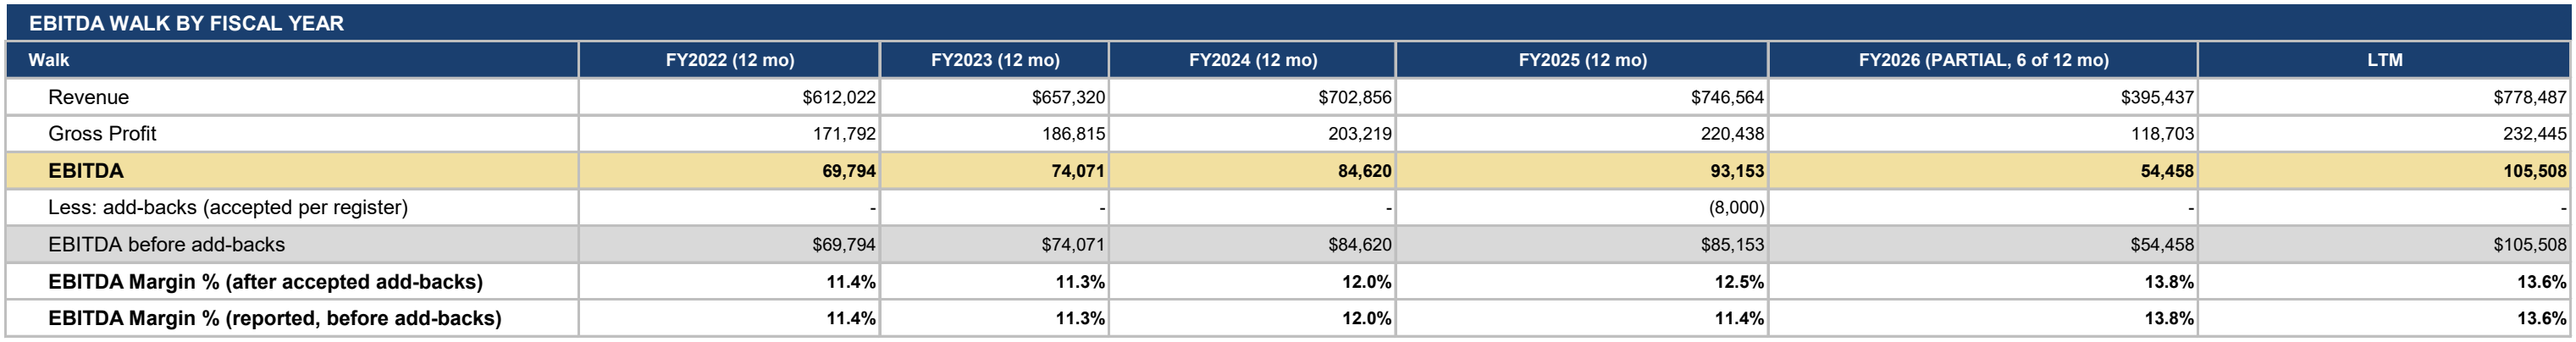
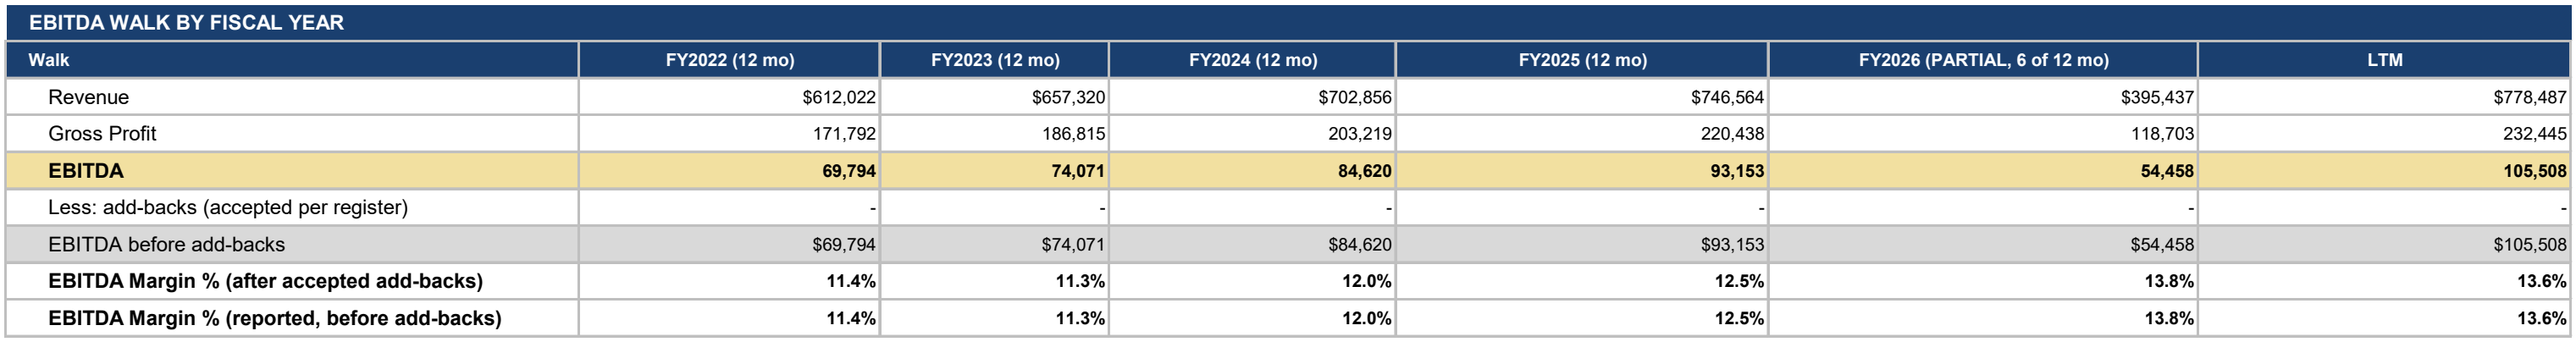
Add files via upload

diff --git a/verification.html b/verification.html
@@ -5,17 +5,24 @@
 <meta name="viewport" content="width=device-width, initial-scale=1.0">
 <title>Agentic AI FP&A Verification: How Vantage Verifies Every Number | Vantage FP&A</title>
 <!-- COPYGATE-ALLOW: NO_LOCKIN_CLAIM REASON: Category statement about what Vantage IS, not a promise about what the buyer escapes. Nic ruled 2026-08-03 that the no-license FAMILY is barred where it describes something the client is spared, because the switching cost is real. This line does the opposite, it says the service is finance work rather than software, and removing it would delete the positioning rather than a claim. -->
-<meta name="description" content="Agentic AI FP&A, not a software license. Deterministic builds and a QC gate that runs automatically on every build. A separate adversarial review is dispatched to an independent reviewer, and workbooks trace to the cell. This is what agentic AI FP&A should be checked against, not taken on faith.">
+<meta name="description" content="Agentic AI FP&A, not a software license. The program that checks a Vantage package did not build it and imports nothing from the code that did. A separate adversarial review is dispatched to a reviewer who did not build the package and cannot edit it. Check the work yourself rather than taking it on faith.">
 <link rel="canonical" href="https://vantagefpa.com/verification">
 <link rel="icon" type="image/png" href="vantage_favicon_32.png">
 <link rel="apple-touch-icon" href="vantage_appletouch_180.png">
 <meta property="og:type" content="website">
 <meta property="og:site_name" content="Vantage FP&A">
 <meta property="og:title" content="Agentic AI FP&A Verification | Vantage FP&A">
-<meta property="og:description" content="Vantage runs agentic AI FP&A, not a software tool. Deterministic builds, a gate that runs automatically on every build, an independent review pass dispatched separately by a reviewer who did not build it, and a workbook you can trace to the cell yourself. No language model computes a number in your deliverables today.">
-<meta property="og:image" content="https://vantagefpa.com/vantage_lockup_light.png">
+<meta property="og:description" content="Vantage runs agentic AI FP&A, not a software tool. The check that grades a package did not build it and cannot edit it. A deterministic gate rereads every build against the source data, an independent review is dispatched to a reviewer who did not build the package, and you can trace any number to its source yourself. No language model computes a number in your deliverables today.">
+<meta property="og:image" content="https://vantagefpa.com/og_verification_1200x627.png">
+<meta property="og:image:width" content="1200">
+<meta property="og:image:height" content="627">
+<meta property="og:image:alt" content="Vantage FP&A share card: agentic AI FP&A verification">
 <meta property="og:url" content="https://vantagefpa.com/verification">
 <meta name="twitter:card" content="summary_large_image">
+<meta name="twitter:title" content="Agentic AI FP&A Verification | Vantage FP&A">
+<meta name="twitter:description" content="Vantage runs agentic AI FP&A, not a software tool. The check that grades a package did not build it and cannot edit it. A deterministic gate rereads every build against the source data, an independent review is dispatched to a reviewer who did not build the package, and you can trace any number to its source yourself. No language model computes a number in your deliverables today.">
+<meta name="twitter:image" content="https://vantagefpa.com/og_verification_1200x627.png">
+<meta name="twitter:image:alt" content="Vantage FP&A share card: agentic AI FP&A verification">
 <script type="application/ld+json">
 {
   "@context": "https://schema.org",
@@ -41,7 +48,7 @@
         {
           "@type": "Question",
           "name": "How is a package checked before it ships?",
-          "acceptedAnswer": {"@type": "Answer", "text": "Two layers. A deterministic QC gate runs automatically on every build and the build does not ship until it clears; every check reports pass, fail, or skip with a reason. Separately, an independent adversarial review is dispatched to a reviewer who did not build the package."}
+          "acceptedAnswer": {"@type": "Answer", "text": "Two layers, and neither one built the work it checks. A deterministic QC gate runs automatically on every build and the build does not ship until it clears; the gate imports nothing from the code it checks, and every check reports pass, fail, or skip with a reason. Separately, an independent adversarial review is dispatched to a reviewer who did not build the package and whose access to it is read only, so it can fail the work but not quietly fix it."}
         },
         {
           "@type": "Question",
@@ -962,7 +969,7 @@
     <div class="hero-eyebrow">Agentic AI FP&A Verification</div>
     <h1>Anyone can generate a deck now. <em>Verification is the product.</em></h1>
     <!-- COPYGATE-ALLOW: NO_LOCKIN_CLAIM REASON: Category statement about what Vantage IS, not a promise about what the buyer escapes. Nic ruled 2026-08-03 that the no-license FAMILY is barred where it describes something the client is spared, because the switching cost is real. This line does the opposite, it says the service is finance work rather than software, and removing it would delete the positioning rather than a claim. -->
-    <p class="page-hero-sub">The hard part is standing behind a number when the other side of the table pushes. Agentic AI FP&A is finance work, not a software license. This page describes how a Vantage figure gets produced, which checks run automatically on every build, and how you check the work yourself without taking a word of this on trust.</p>
+    <p class="page-hero-sub">The hard part is standing behind a number when the other side of the table pushes. Agentic AI FP&A is finance work, not a software license, built on one structural rule. The thing that checks a number did not build it, and cannot edit it. This page describes how a Vantage figure gets produced, which checks run automatically on every build, and how you check the work yourself without taking a word of this on trust.</p>
     <div class="page-hero-actions">
       <a href="https://calendar.app.google/tAysdXyan6rFuXEZ6" target="_blank" rel="noopener noreferrer" class="btn-primary">Schedule a Call</a>
       <a href="#check-it" class="btn-ghost">How you check it yourself</a>
@@ -991,8 +998,8 @@
       <div class="why-row">
         <div class="why-row-num">02</div>
         <div class="why-row-body">
-          <div class="why-row-title">A Deterministic Gate First, an Adversary Second</div>
-          <p class="why-row-desc">The deterministic checks run automatically on every build, and a build does not leave the shop until it clears them. They test structure rather than opinion, things like whether every tab that should exist exists, whether any cell carries an error value, whether the levers are wired to the schedules they claim to drive. On top of that, a separate review pass whose only job is to find what is wrong with the package runs independently, handled by a reviewer that did not build it. Today that adversarial review is dispatched rather than fired by the build, and closing that loop is on the roadmap.</p>
+          <div class="why-row-title">The Check Did Not Build the Work, and Cannot Edit It</div>
+          <p class="why-row-desc">The deterministic checks run automatically on every build, and a build does not leave the shop until it clears them. They test structure and internal agreement rather than opinion, whether every tab that should exist exists, whether any cell carries an error value, whether the walk foots and the figures agree with the source data. The gate that runs them is a separate program that imports nothing from the code it checks, so the engine cannot vouch for itself. On top of that, a separate review pass whose only job is to find what is wrong with the package is handled by a reviewer that did not build it and whose access to the file is read only. It can fail the work and say why, and a fix is a separate pass by different hands. Today that adversarial review is dispatched rather than fired by the build, and closing that loop is on the roadmap.</p>
         </div>
       </div>
       <div class="why-row">

diff --git a/index.html b/index.html
@@ -4,17 +4,24 @@
 <meta charset="UTF-8">
 <meta name="viewport" content="width=device-width, initial-scale=1.0">
 <title>Vantage FP&A | Agentic AI Diligence and Reporting</title>
-<meta name="description" content="Agentic AI diligence and reporting for the moment someone with money at stake examines your numbers. A deterministic engine, no LLM in any numeric path today, every figure traceable to its source.">
+<meta name="description" content="Agentic AI diligence and reporting for the moment someone with money at stake examines your numbers. Every figure traces to its source, no LLM in any numeric path today, and every package is checked by a program that did not build it.">
 <link rel="canonical" href="https://vantagefpa.com/">
 <link rel="icon" type="image/png" href="vantage_favicon_32.png">
 <link rel="apple-touch-icon" href="vantage_appletouch_180.png">
 <meta property="og:type" content="website">
 <meta property="og:site_name" content="Vantage FP&A">
 <meta property="og:title" content="Vantage FP&A | Agentic AI Diligence and Reporting">
-<meta property="og:description" content="Agentic AI diligence and reporting for the moment someone with money at stake examines your numbers. A deterministic engine, no LLM in any numeric path today, every figure traceable to its source.">
-<meta property="og:image" content="https://vantagefpa.com/vantage_lockup_light.png">
+<meta property="og:description" content="Agentic AI diligence and reporting for the moment someone with money at stake examines your numbers. Every figure traces to its source, no LLM in any numeric path today, and every package is checked by a program that did not build it.">
+<meta property="og:image" content="https://vantagefpa.com/og_home_1200x627.png">
+<meta property="og:image:width" content="1200">
+<meta property="og:image:height" content="627">
+<meta property="og:image:alt" content="Vantage FP&A share card: agentic AI diligence and reporting">
 <meta property="og:url" content="https://vantagefpa.com/">
 <meta name="twitter:card" content="summary_large_image">
+<meta name="twitter:title" content="Vantage FP&A | Agentic AI Diligence and Reporting">
+<meta name="twitter:description" content="Agentic AI diligence and reporting for the moment someone with money at stake examines your numbers. Every figure traces to its source, no LLM in any numeric path today, and every package is checked by a program that did not build it.">
+<meta name="twitter:image" content="https://vantagefpa.com/og_home_1200x627.png">
+<meta name="twitter:image:alt" content="Vantage FP&A share card: agentic AI diligence and reporting">
 <script type="application/ld+json">
 {
   "@context": "https://schema.org",
@@ -952,7 +959,7 @@
 <section class="hero" data-node-field>
   <div class="hero-inner">
     <h1>Agentic AI financial infrastructure</h1>
-    <p class="hero-sub">Vantage runs your financial planning and analysis, monthly board reporting, a rolling forecast, and quality of earnings work, then hands you numbers you can defend in any room.</p>
+    <p class="hero-sub">Vantage runs your financial planning and analysis, monthly board reporting, a rolling forecast, and quality of earnings work, then hands you numbers you can defend in any room, because the thing that checked them did not build them.</p>
     <p class="hero-line">Built and maintained for you.</p>
     <div class="hero-actions">
       <a href="https://calendar.app.google/tAysdXyan6rFuXEZ6" target="_blank" rel="noopener noreferrer" class="btn-primary">Schedule a Consultation</a>
@@ -1027,7 +1034,7 @@
       </li>
       <li class="catalog-item no-index">
         <span class="catalog-lead">The numbers are checked by something that did not write them.</span>
-        <span class="catalog-rest">A separate gate recomputes the headline figures from your source data and compares them against both the deck and the workbook, a disagreement fails the build, and no language model sits anywhere in the engine today.</span>
+        <span class="catalog-rest">A separate gate, importing nothing from the code it checks, recomputes the headline figures from your source data and compares them against both the deck and the workbook. A disagreement fails the build, and no language model sits anywhere in the engine today.</span>
       </li>
       <li class="catalog-item no-index">
         <span class="catalog-lead">One intake, read once, behind the whole monthly package.</span>
@@ -1085,7 +1092,7 @@
         </svg>
         <div class="service-tag">Every Month</div>
         <div class="service-name">Reporting Infrastructure</div>
-        <p class="service-desc">The same verification-led build, pointed at the monthly close. A rolling forecast and a board package on the template your investors expect, maintained on a monthly retainer.</p>
+        <p class="service-desc">Agentic AI builds and maintains the same system, pointed at the monthly close. A rolling forecast and a board package on the template your investors expect, on a monthly retainer.</p>
         <a href="reporting" class="card-link">See the build and the retainer</a>
       </div>
     </div>
@@ -1099,7 +1106,7 @@
     <div class="section-header">
       <div>
         <div class="section-eyebrow">Verification</div>
-        <h2 class="section-title">Verification is the product</h2>
+        <h2 class="section-title">Agentic AI builds the system you can check</h2>
       </div>
       <p class="section-desc" style="color: rgba(255,255,255,0.5);">Anyone can generate a databook or a board deck now. The hard part is standing behind it when the other side of the table pushes. Vantage is built so the output holds up under that push, and so you can see for yourself that it does.</p>
     </div>
@@ -1111,8 +1118,8 @@
       </div>
       <div class="why-item">
         <div class="why-number">02</div>
-        <div class="why-title">A deterministic gate first, an adversary second</div>
-        <p class="why-desc">The deterministic checks run automatically on every build. A separate adversarial review is dispatched to a reviewer who did not build the package, independent by construction rather than part of the machine.</p>
+        <div class="why-title">The check did not build the work, and cannot edit it</div>
+        <p class="why-desc">The deterministic checks run automatically on every build, from a program that imports nothing from the code it checks. A separate adversarial review is dispatched to a reviewer who did not build the package and cannot edit it, independent by construction rather than part of the machine.</p>
       </div>
       <div class="why-item">
         <div class="why-number">03</div>

diff --git a/deal-diligence.html b/deal-diligence.html
@@ -4,7 +4,7 @@
 <meta charset="UTF-8">
 <meta name="viewport" content="width=device-width, initial-scale=1.0">
 <title>M&A Financial Due Diligence and Quality of Earnings | Vantage FP&A</title>
-<meta name="description" content="M&A financial due diligence. Buy-side QoE support and sell-side readiness, every add-back carrying its basis, and reconciliation checks you can run yourself on sample figures.">
+<meta name="description" content="M&A financial due diligence. Buy-side QoE support and sell-side readiness, every add-back carrying its basis, checks you can run yourself on sample figures, and a package graded by a program that did not build it.">
 <link rel="canonical" href="https://vantagefpa.com/deal-diligence">
 <link rel="icon" type="image/png" href="vantage_favicon_32.png">
 <link rel="apple-touch-icon" href="vantage_appletouch_180.png">
@@ -12,9 +12,16 @@
 <meta property="og:site_name" content="Vantage FP&A">
 <meta property="og:title" content="M&A Financial Due Diligence and Quality of Earnings | Vantage FP&A">
 <meta property="og:description" content="M&A financial due diligence, buy-side and sell-side. Proof of cash when bank statements are supplied, normalized EBITDA tied to the general ledger, red flags with the evidence attached, and a walk-through you run yourself.">
-<meta property="og:image" content="https://vantagefpa.com/vantage_lockup_light.png">
+<meta property="og:image" content="https://vantagefpa.com/og_deal-diligence_1200x627.png">
+<meta property="og:image:width" content="1200">
+<meta property="og:image:height" content="627">
+<meta property="og:image:alt" content="Vantage FP&A share card: M&A financial due diligence and quality of earnings">
 <meta property="og:url" content="https://vantagefpa.com/deal-diligence">
 <meta name="twitter:card" content="summary_large_image">
+<meta name="twitter:title" content="M&A Financial Due Diligence and Quality of Earnings | Vantage FP&A">
+<meta name="twitter:description" content="M&A financial due diligence, buy-side and sell-side. Proof of cash when bank statements are supplied, normalized EBITDA tied to the general ledger, red flags with the evidence attached, and a walk-through you run yourself.">
+<meta name="twitter:image" content="https://vantagefpa.com/og_deal-diligence_1200x627.png">
+<meta name="twitter:image:alt" content="Vantage FP&A share card: M&A financial due diligence and quality of earnings">
 <script type="application/ld+json">
 {
   "@context": "https://schema.org",
@@ -943,7 +950,7 @@
   <div class="page-hero-inner">
     <div class="hero-eyebrow">M&A Financial Due Diligence</div>
     <h1>When a deal is on the table, <em>every figure carries its source.</em></h1>
-    <p class="page-hero-sub">Verification-led diligence support for the deals a full-scope accounting-firm engagement is not built for. Built for sponsors and independent buyers underwriting a target, for brokers and deal teams who need every figure to carry its source, and for founders getting ready to sell. Agentic AI builds and maintains the system, and a deterministic engine computes every number, so the same inputs return the same outputs on any run.</p>
+    <p class="page-hero-sub">Agentic AI builds and runs diligence support for the deals a full-scope accounting-firm engagement is not built for. Built for sponsors and independent buyers underwriting a target, for brokers and deal teams who need every figure to carry its source, and for founders getting ready to sell. A deterministic engine computes every number, so the same inputs return the same outputs on any run, and the finished package then has to clear a program that had no part in building it.</p>
     <div class="page-hero-actions">
       <a href="https://calendar.app.google/tAysdXyan6rFuXEZ6" target="_blank" rel="noopener noreferrer" class="btn-primary">Talk About a Live Deal</a>
       <a href="#sell-side" class="btn-ghost">Selling instead of buying</a>
@@ -1176,7 +1183,7 @@
         <div class="section-eyebrow">Verification</div>
         <h2 class="section-title">How you check the work</h2>
       </div>
-      <p class="section-desc" style="color: rgba(255,255,255,0.5);">A diligence package is only worth the questions it can survive. Every figure is produced by deterministic code and every workbook ships formula-driven. An automated quality gate runs on every build. A separate adversarial review, dispatched to a reviewer who did not build the package, argues with the work as well.</p>
+      <p class="section-desc" style="color: rgba(255,255,255,0.5);">A diligence package is only worth the questions it can survive, so the first outside reader is in the shop. A gate that imports nothing from the code it checks recomputes the walk, the tie-out and, when bank statements are supplied, the proof of cash from the source data, and a disagreement fails the package before it leaves. A separate adversarial review, dispatched to a reviewer who did not build the package and cannot edit it, argues with the work as well.</p>
     </div>
     <div class="why-footer">
       <a href="verification" class="btn-ghost">Read how verification works</a>

diff --git a/reporting.html b/reporting.html
@@ -12,9 +12,16 @@
 <meta property="og:site_name" content="Vantage FP&A">
 <meta property="og:title" content="Board Reporting and Covenant Reporting | Vantage FP&A">
 <meta property="og:description" content="The build and the retainer. An automated close cycle, a rolling forecast, and a board package built on your chart of accounts and the template your investors expect, maintained month to month.">
-<meta property="og:image" content="https://vantagefpa.com/vantage_lockup_light.png">
+<meta property="og:image" content="https://vantagefpa.com/og_reporting_1200x627.png">
+<meta property="og:image:width" content="1200">
+<meta property="og:image:height" content="627">
+<meta property="og:image:alt" content="Vantage FP&A share card: board and covenant reporting">
 <meta property="og:url" content="https://vantagefpa.com/reporting">
 <meta name="twitter:card" content="summary_large_image">
+<meta name="twitter:title" content="Board Reporting and Covenant Reporting | Vantage FP&A">
+<meta name="twitter:description" content="The build and the retainer. An automated close cycle, a rolling forecast, and a board package built on your chart of accounts and the template your investors expect, maintained month to month.">
+<meta name="twitter:image" content="https://vantagefpa.com/og_reporting_1200x627.png">
+<meta name="twitter:image:alt" content="Vantage FP&A share card: board and covenant reporting">
 <script type="application/ld+json">
 {
   "@context": "https://schema.org",
@@ -943,7 +950,7 @@
   <div class="page-hero-inner">
     <div class="hero-eyebrow">Reporting Infrastructure</div>
     <h1>Finance infrastructure your board and <em>investors will trust.</em></h1>
-    <p class="page-hero-sub">The same verification-led build, pointed at the monthly close. Once the deal is done, or when there is no deal at all, the engagement builds and then runs the reporting infrastructure for any company whose numbers face a board every month. Agentic AI builds and maintains the system, a deterministic engine computes every number, and one intake feeds every deliverable, so the workbook, the deck, and the forecast cannot disagree with each other.</p>
+    <p class="page-hero-sub">Agentic AI builds and maintains the same system, pointed at the monthly close. Once the deal is done, or when there is no deal at all, the engagement runs the reporting infrastructure for any company whose numbers face a board every month. A deterministic engine computes every number, and one intake feeds every deliverable, so the workbook, the deck, and the forecast cannot disagree with each other.</p>
     <div class="page-hero-actions">
       <a href="https://calendar.app.google/tAysdXyan6rFuXEZ6" target="_blank" rel="noopener noreferrer" class="btn-primary">Schedule a Call</a>
       <a href="#model" class="btn-ghost">How the engagement runs</a>

diff --git a/news.html b/news.html
@@ -12,9 +12,16 @@
 <meta property="og:site_name" content="Vantage FP&A">
 <meta property="og:title" content="Vantage FP&A LLC Launches to Modernize Financial Planning, Reporting, and Diligence with Agentic AI">
 <meta property="og:description" content="New platform combines agentic AI workflow support, deterministic calculations, and source-level traceability for decision-ready reporting, forecasting, and diligence.">
-<meta property="og:image" content="https://vantagefpa.com/vantage_lockup_light.png">
+<meta property="og:image" content="https://vantagefpa.com/og_news_1200x627.png">
+<meta property="og:image:width" content="1200">
+<meta property="og:image:height" content="627">
+<meta property="og:image:alt" content="Vantage FP&A share card: company launch announcement">
 <meta property="og:url" content="https://vantagefpa.com/news">
 <meta name="twitter:card" content="summary_large_image">
+<meta name="twitter:title" content="Vantage FP&A LLC Launches to Modernize Financial Planning, Reporting, and Diligence with Agentic AI">
+<meta name="twitter:description" content="New platform combines agentic AI workflow support, deterministic calculations, and source-level traceability for decision-ready reporting, forecasting, and diligence.">
+<meta name="twitter:image" content="https://vantagefpa.com/og_news_1200x627.png">
+<meta name="twitter:image:alt" content="Vantage FP&A share card: company launch announcement">
 <script type="application/ld+json">
 {
   "@context": "https://schema.org",
@@ -1103,6 +1110,17 @@
     </div>
 
   </article>
+</section>
+
+<!-- CTA BAND -->
+<section class="cta-band">
+  <div class="section-inner cta-band-inner">
+    <div>
+      <div class="cta-band-title">Start with a conversation, not a proposal</div>
+      <p class="cta-band-desc">If a deal is in diligence, if a sale is coming, or if the close runs long every month, that is a short call. Pick a time and we will talk. No form, no funnel.</p>
+    </div>
+    <a href="https://calendar.app.google/tAysdXyan6rFuXEZ6" target="_blank" rel="noopener noreferrer" class="btn-primary">Schedule a Call</a>
+  </div>
 </section>
 
 <!-- FOOTER -->

diff --git a/releases.html b/releases.html
@@ -12,9 +12,16 @@
 <meta property="og:site_name" content="Vantage FP&A">
 <meta property="og:title" content="Releases | Vantage FP&A">
 <meta property="og:description" content="Company announcements from Vantage FP&A, collected here as they publish.">
-<meta property="og:image" content="https://vantagefpa.com/vantage_lockup_light.png">
+<meta property="og:image" content="https://vantagefpa.com/og_releases_1200x627.png">
+<meta property="og:image:width" content="1200">
+<meta property="og:image:height" content="627">
+<meta property="og:image:alt" content="Vantage FP&A share card: releases">
 <meta property="og:url" content="https://vantagefpa.com/releases">
 <meta name="twitter:card" content="summary_large_image">
+<meta name="twitter:title" content="Releases | Vantage FP&A">
+<meta name="twitter:description" content="Company announcements from Vantage FP&A, collected here as they publish.">
+<meta name="twitter:image" content="https://vantagefpa.com/og_releases_1200x627.png">
+<meta name="twitter:image:alt" content="Vantage FP&A share card: releases">
 <link rel="preload" href="Inter.ttf" as="font" type="font/ttf" crossorigin>
 <link rel="preload" href="PlayfairDisplay.ttf" as="font" type="font/ttf" crossorigin>
 <link rel="stylesheet" href="styles.css">
@@ -977,6 +984,17 @@
       <a href="news" class="card-link">Read the release</a>
     </article>
 
+  </div>
+</section>
+
+<!-- CTA BAND -->
+<section class="cta-band">
+  <div class="section-inner cta-band-inner">
+    <div>
+      <div class="cta-band-title">Start with a conversation, not a proposal</div>
+      <p class="cta-band-desc">If a deal is in diligence, if a sale is coming, or if the close runs long every month, that is a short call. Pick a time and we will talk. No form, no funnel.</p>
+    </div>
+    <a href="https://calendar.app.google/tAysdXyan6rFuXEZ6" target="_blank" rel="noopener noreferrer" class="btn-primary">Schedule a Call</a>
   </div>
 </section>
 

diff --git a/for-brokers.html b/for-brokers.html
@@ -12,9 +12,16 @@
 <meta property="og:site_name" content="Vantage FP&A">
 <meta property="og:title" content="Diligence Support for Brokers and Lenders | Vantage FP&A">
 <meta property="og:description" content="You get paid when the deal closes, and diligence is where closings die. Vantage does the numbers work before the buyer's team arrives, so every figure on the listing carries its source. Referral terms in writing.">
-<meta property="og:image" content="https://vantagefpa.com/vantage_lockup_light.png">
+<meta property="og:image" content="https://vantagefpa.com/og_for-brokers_1200x627.png">
+<meta property="og:image:width" content="1200">
+<meta property="og:image:height" content="627">
+<meta property="og:image:alt" content="Vantage FP&A share card: diligence support for brokers and lenders">
 <meta property="og:url" content="https://vantagefpa.com/for-brokers">
 <meta name="twitter:card" content="summary_large_image">
+<meta name="twitter:title" content="Diligence Support for Brokers and Lenders | Vantage FP&A">
+<meta name="twitter:description" content="You get paid when the deal closes, and diligence is where closings die. Vantage does the numbers work before the buyer's team arrives, so every figure on the listing carries its source. Referral terms in writing.">
+<meta name="twitter:image" content="https://vantagefpa.com/og_for-brokers_1200x627.png">
+<meta name="twitter:image:alt" content="Vantage FP&A share card: diligence support for brokers and lenders">
 <script type="application/ld+json">
 {
   "@context": "https://schema.org",

diff --git a/agentic-ai-fpa.html b/agentic-ai-fpa.html
@@ -12,9 +12,16 @@
 <meta property="og:site_name" content="Vantage FP&A">
 <meta property="og:title" content="How to Evaluate an Agentic AI FP&A Supplier | Vantage FP&A">
 <meta property="og:description" content="Every agentic AI FP&A supplier claims traceability and forecasting. What actually separates them is whether a model computes the number or deterministic code does, and who checks it.">
-<meta property="og:image" content="https://vantagefpa.com/vantage_lockup_light.png">
+<meta property="og:image" content="https://vantagefpa.com/og_agentic-ai-fpa_1200x627.png">
+<meta property="og:image:width" content="1200">
+<meta property="og:image:height" content="627">
+<meta property="og:image:alt" content="Vantage FP&A share card: evaluating an agentic AI FP&A supplier">
 <meta property="og:url" content="https://vantagefpa.com/agentic-ai-fpa">
 <meta name="twitter:card" content="summary_large_image">
+<meta name="twitter:title" content="How to Evaluate an Agentic AI FP&A Supplier | Vantage FP&A">
+<meta name="twitter:description" content="Every agentic AI FP&A supplier claims traceability and forecasting. What actually separates them is whether a model computes the number or deterministic code does, and who checks it.">
+<meta name="twitter:image" content="https://vantagefpa.com/og_agentic-ai-fpa_1200x627.png">
+<meta name="twitter:image:alt" content="Vantage FP&A share card: evaluating an agentic AI FP&A supplier">
 <script type="application/ld+json">
 {
   "@context": "https://schema.org",

diff --git a/about.html b/about.html
@@ -12,9 +12,16 @@
 <meta property="og:site_name" content="Vantage FP&A">
 <meta property="og:title" content="About Vantage FP&A | Agentic AI Finance, Austin TX">
 <meta property="og:description" content="Deliverables you can open, a trace you can follow, and a standard that holds from diligence through the retainer. Austin, Texas, engagements nationwide. Pick a time and we will talk.">
-<meta property="og:image" content="https://vantagefpa.com/vantage_lockup_light.png">
+<meta property="og:image" content="https://vantagefpa.com/og_about_1200x627.png">
+<meta property="og:image:width" content="1200">
+<meta property="og:image:height" content="627">
+<meta property="og:image:alt" content="Vantage FP&A share card: about Vantage FP&A">
 <meta property="og:url" content="https://vantagefpa.com/about">
 <meta name="twitter:card" content="summary_large_image">
+<meta name="twitter:title" content="About Vantage FP&A | Agentic AI Finance, Austin TX">
+<meta name="twitter:description" content="Deliverables you can open, a trace you can follow, and a standard that holds from diligence through the retainer. Austin, Texas, engagements nationwide. Pick a time and we will talk.">
+<meta name="twitter:image" content="https://vantagefpa.com/og_about_1200x627.png">
+<meta name="twitter:image:alt" content="Vantage FP&A share card: about Vantage FP&A">
 <script type="application/ld+json">
 {
   "@context": "https://schema.org",
